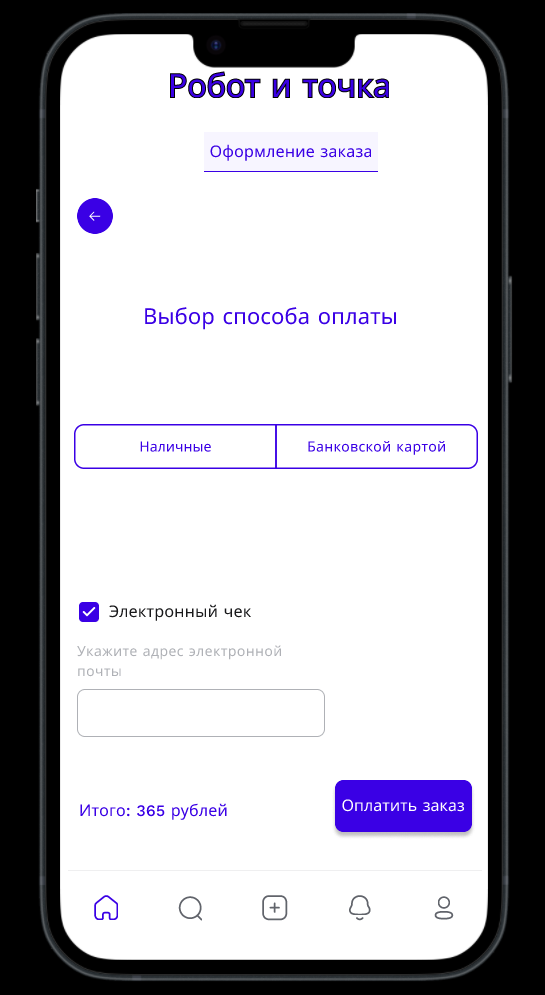
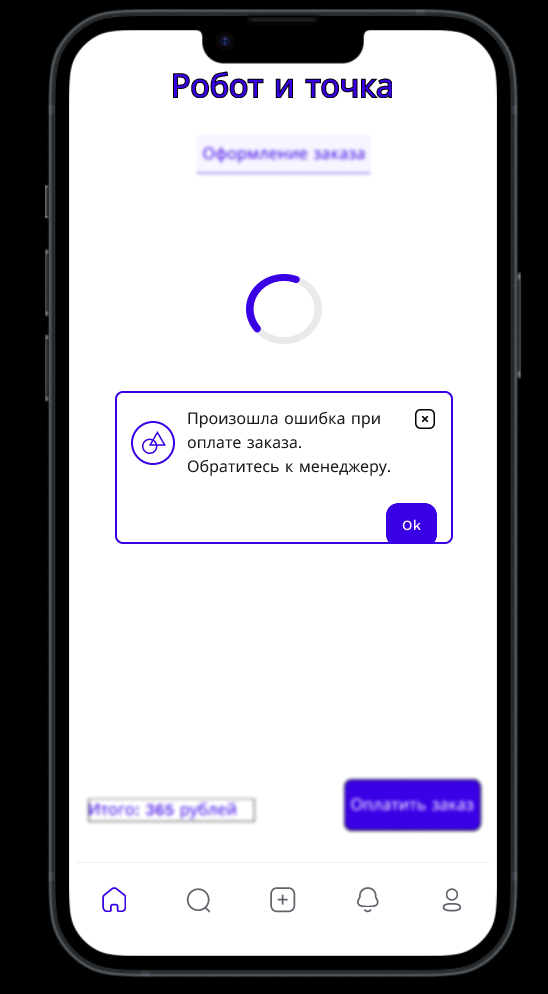
2
+

Changed region(s): [[0.0624, 0.0, 0.967, 0.998], [0.2495, 0.2807, 0.7174, 0.3431], [0.4991, 0.2495, 0.5303, 0.2807]]

diff --git a/docs/uix.md b/docs/uix.md
@@ -1,0 +1,58 @@
+# Пользовательский интерфейс приложения
+
+## Вайрфреймы
+
+Пользовательский интерфейс представлен в виде вайрфоеймов страниц веб-приложения.
+
+### **`WF1`** Место получения заказа
+
+![](docs/images/question-2.png)
+
+### **`WF2`** Форма вопроса для участия в программе лояльности
+
+![](docs/images/question.png)
+
+### **`WF3`** Форма аутентификации
+
+![](docs/images/authentication.png)
+
+### **`WF4`** Форма восстановления пароля
+
+![](docs/images/recovery.png)
+
+### **`WF5`** Форма регистрации
+
+![](docs/images/registration.png)
+
+### **`WF6`** Форма меню
+
+![](docs/images/menu.png)
+
+### **`WF7`** Форма сформированной корзины
+
+![](docs/images/cart.png)
+
+### **`WF8`** Форма оплаты
+
+![](docs/images/pay.png)
+
+### **`WF9`** Форма оплаты картой
+
+![](docs/images/card.png
+
+### **`WF10`** Форма оплаты наличными
+
+![](docs/images/cash.png)
+
+### **`WF11`** Форма оплаты бонусами
+
+![](docs/images/bonus.png)
+
+
+### **`WF12`** Ошибка оплаты
+
+![](docs/images/error.png)
+
+### **`WF13`** Форма отзывы
+
+![](docs/images/feedback.png)
